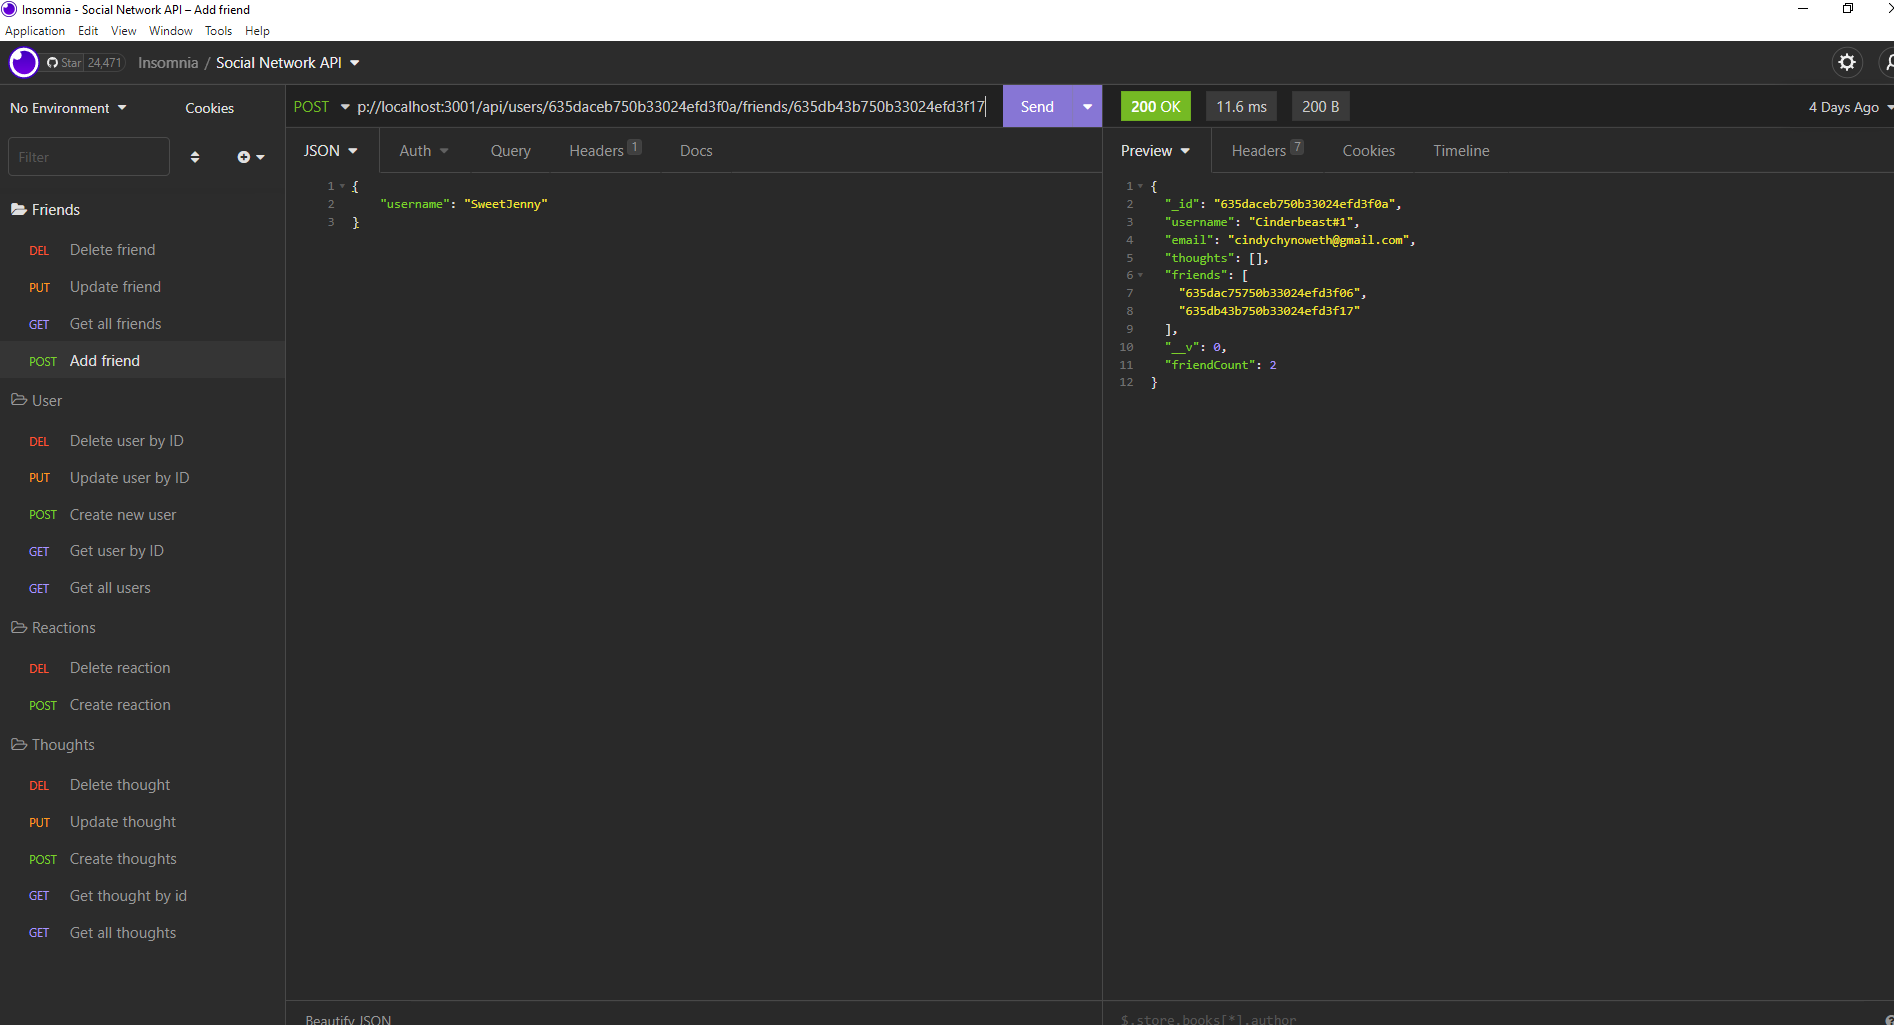
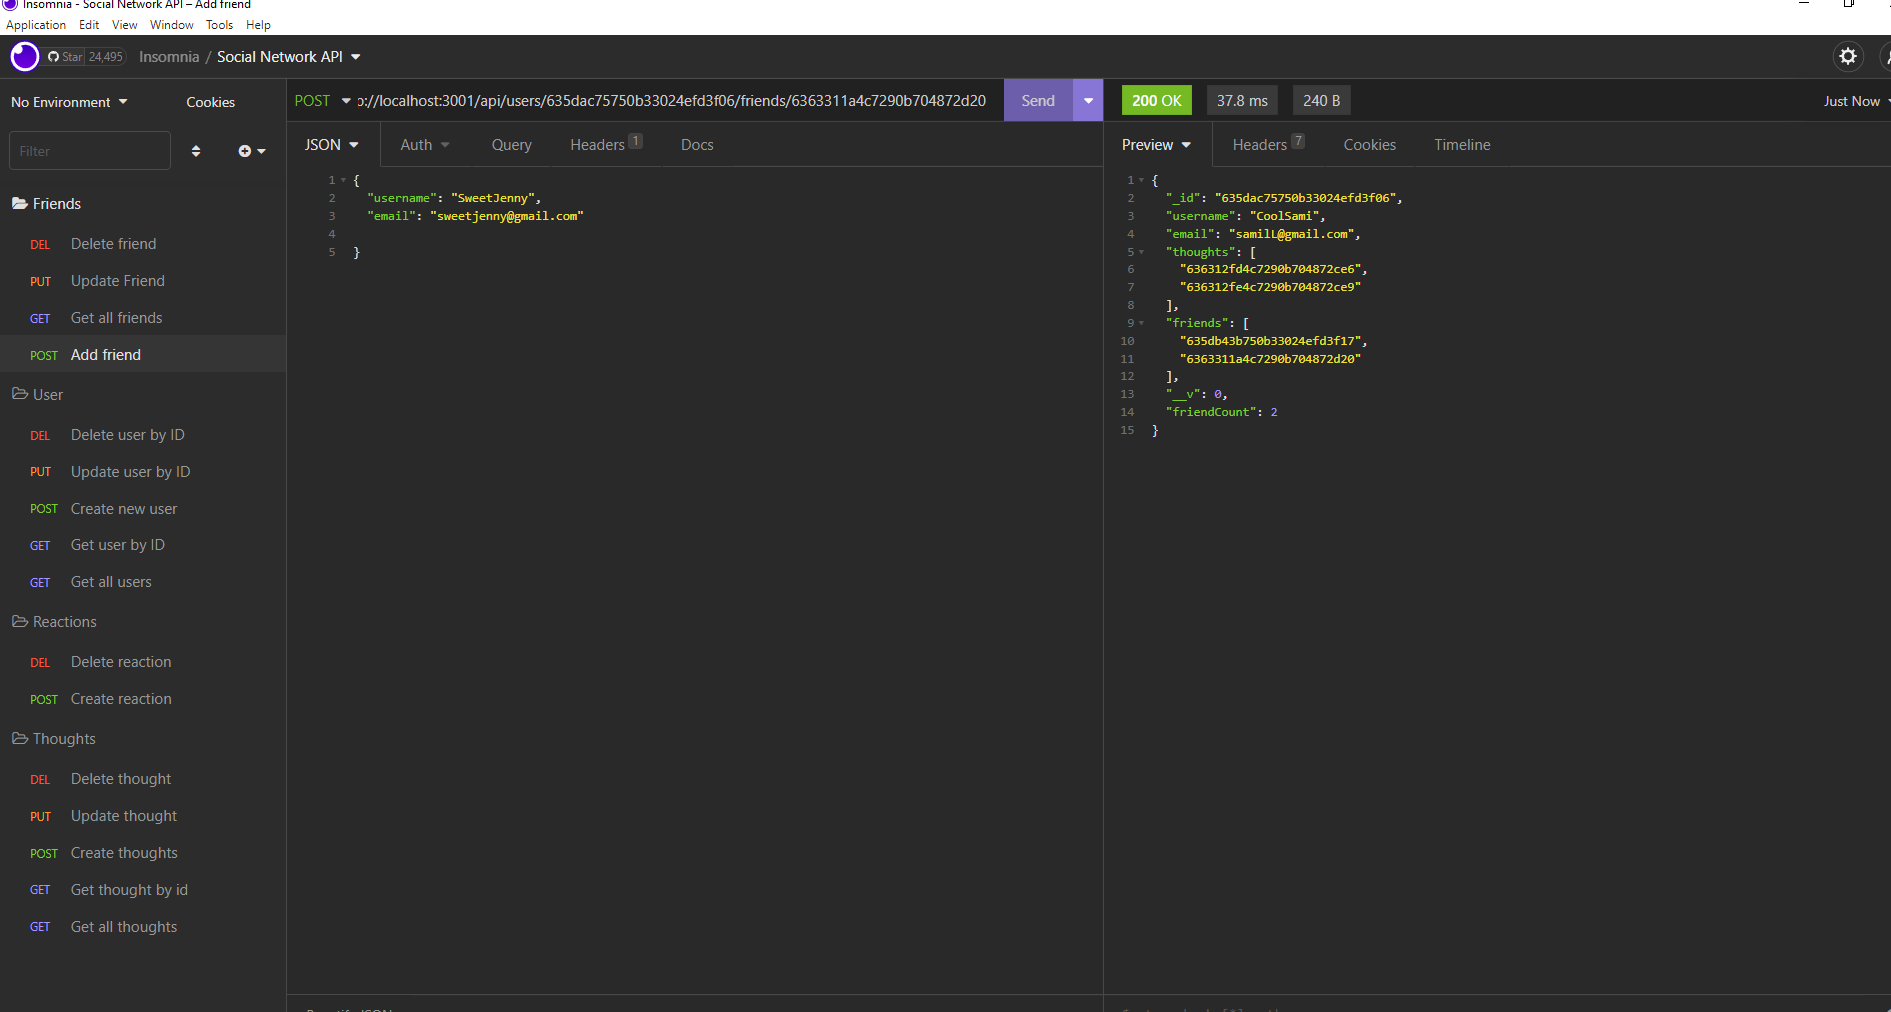
ChangedScreenshot

diff --git a/README.md b/README.md
@@ -59,7 +59,7 @@ All Friends
 ![Friends](https://user-images.githubusercontent.com/105569378/199856669-e841b79b-cb30-4765-a2e2-fe86e3cb1e5c.png)
 
 Add A Friend
-![AddAFriend](https://user-images.githubusercontent.com/105569378/199856676-1501dc61-8199-4d44-918f-615ff06fba65.png)
+![AddAFriend](https://user-images.githubusercontent.com/105569378/199859803-9b1c6bb2-97af-4d49-b848-97df9a0af431.png)
 
 Create A Thought
 ![CreateThought](https://user-images.githubusercontent.com/105569378/199857459-48e9f699-aa4c-4465-8e79-c2d74a577ad9.png)
